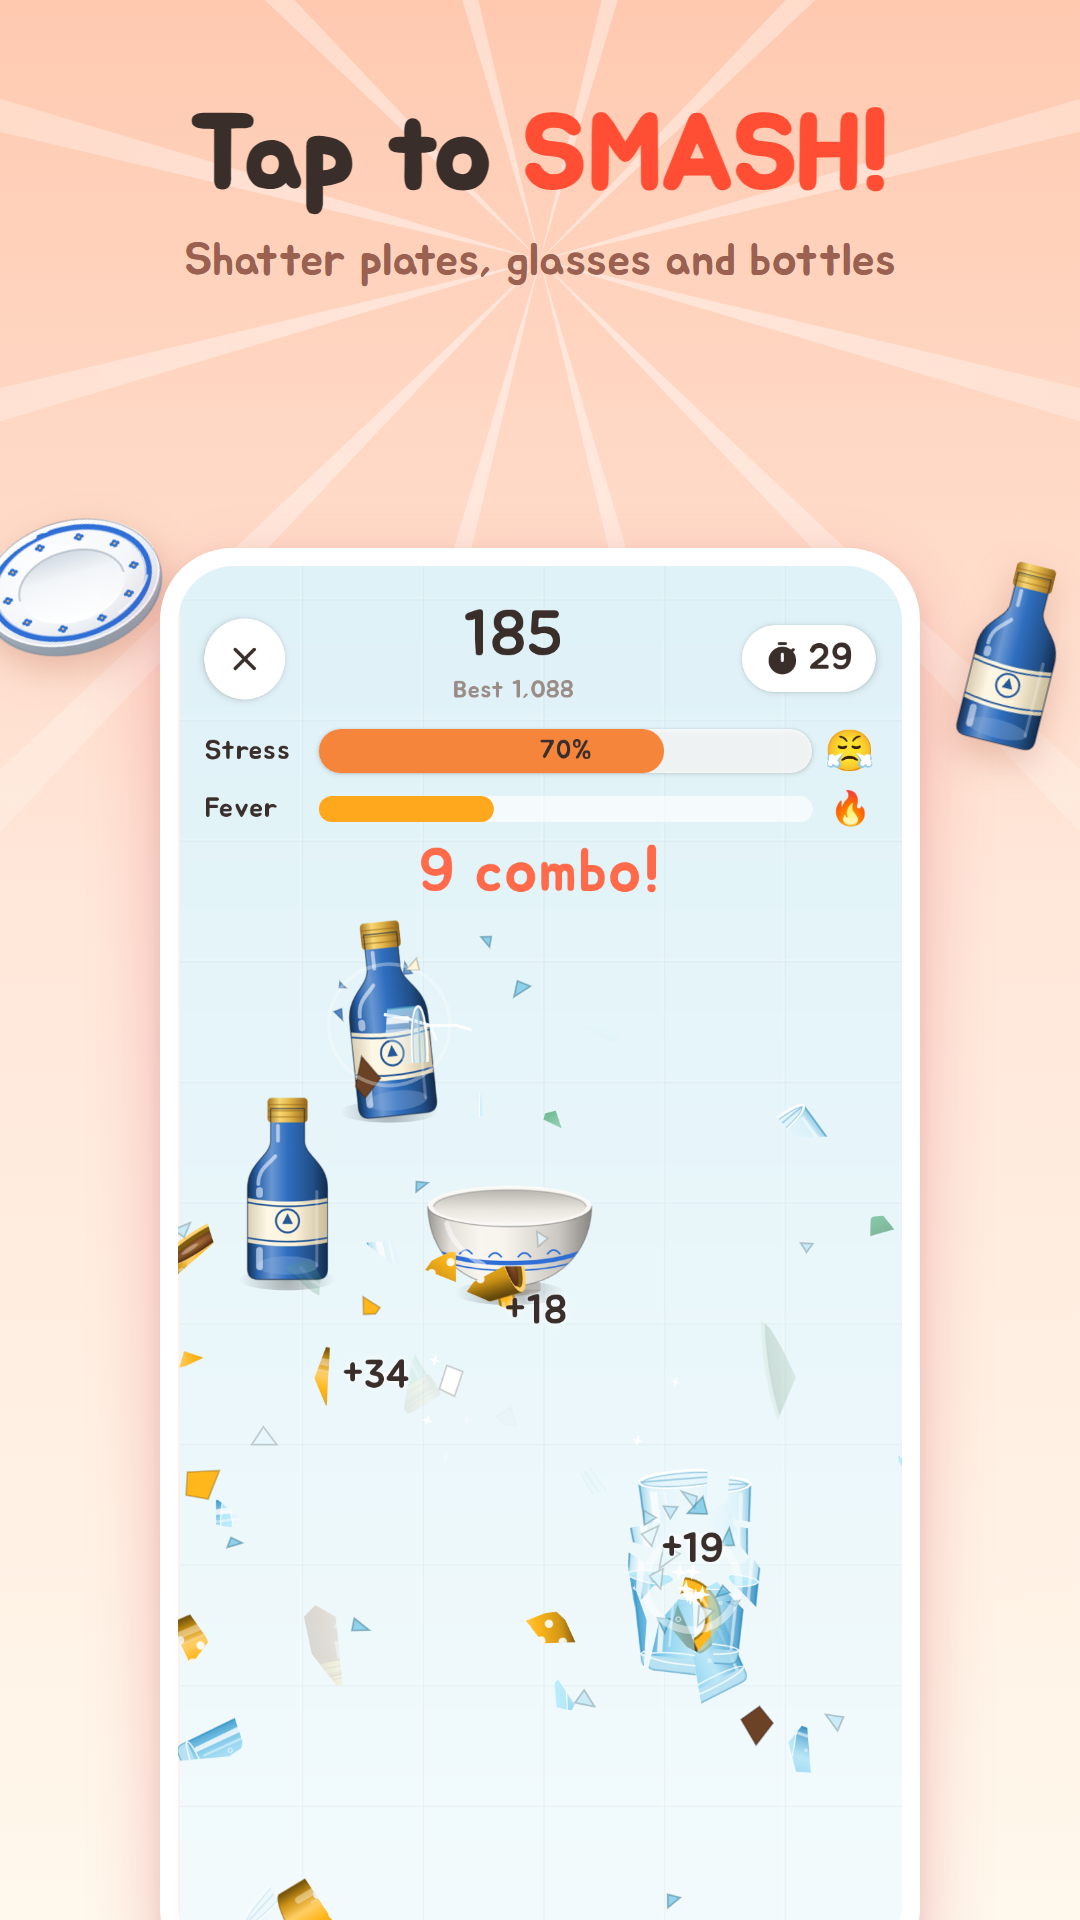
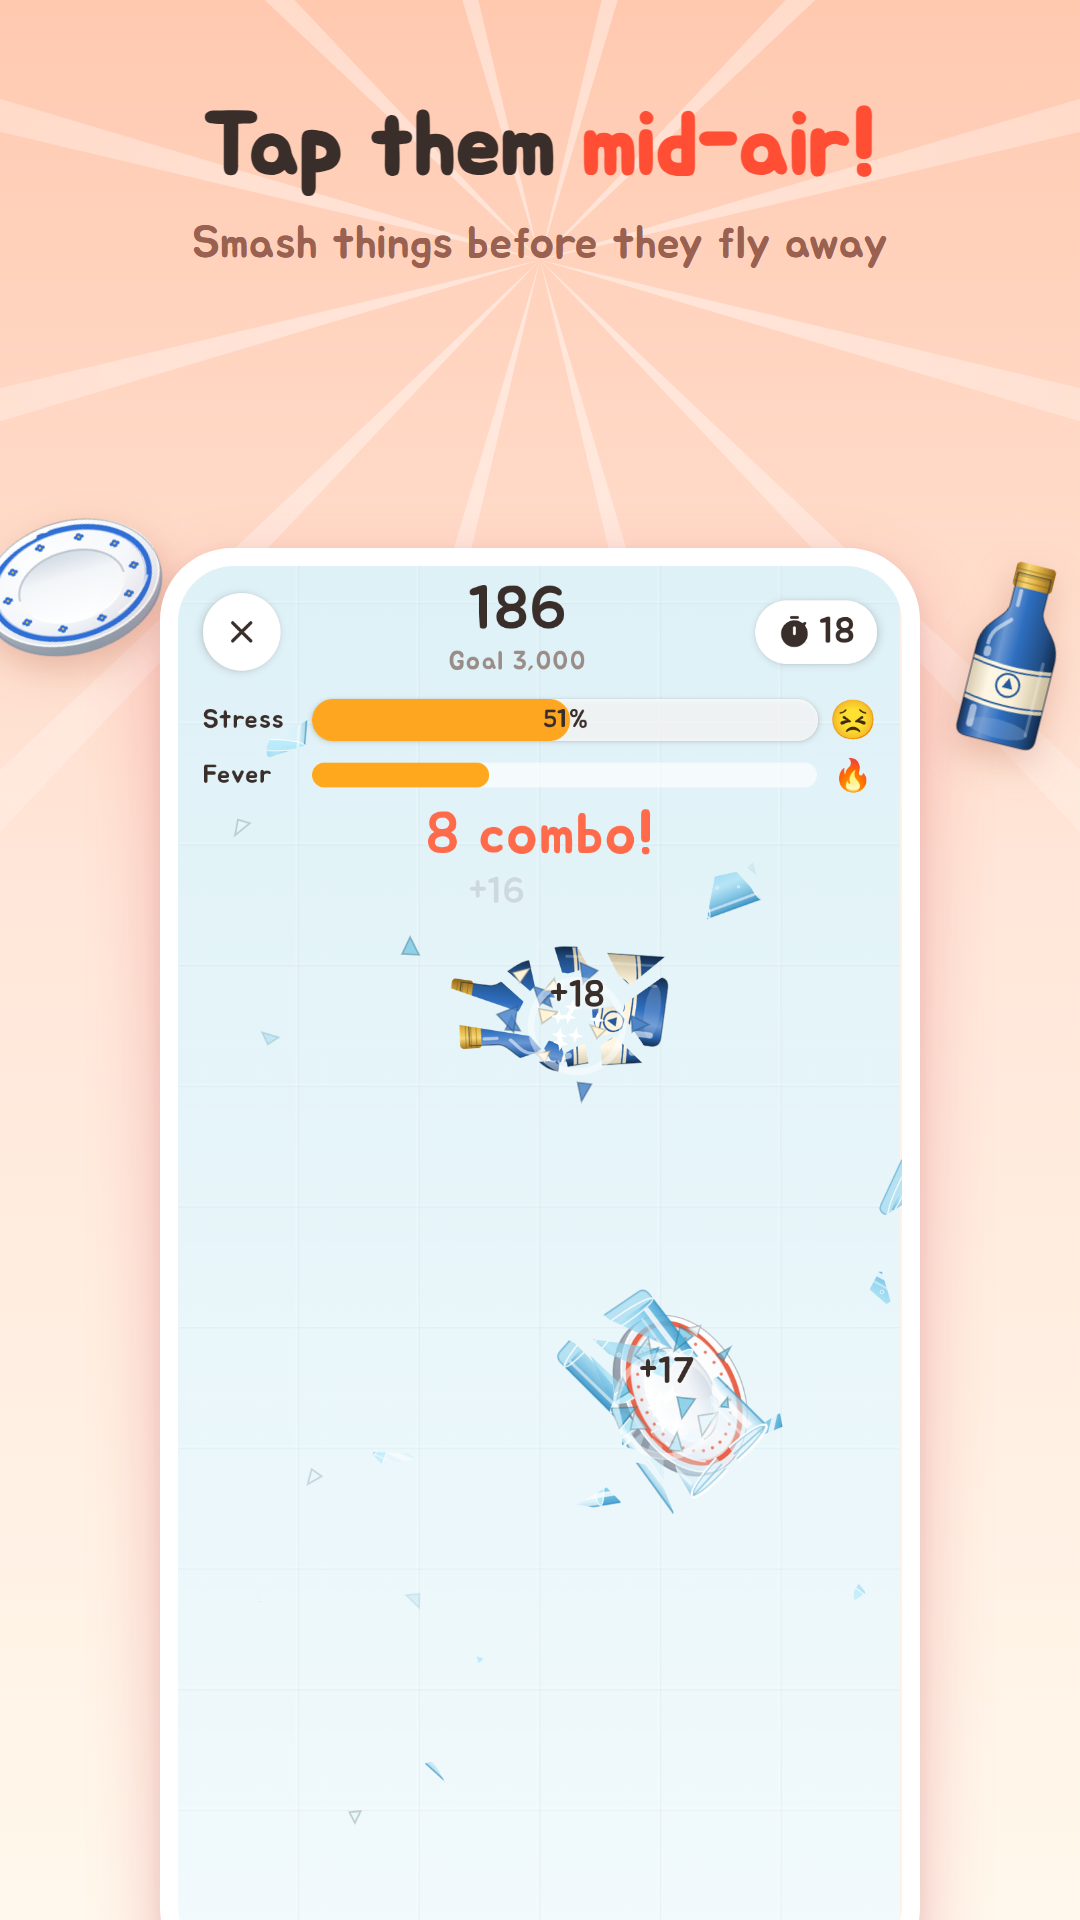
스트레스 박살: 스테이지·박살 대결에 맞게 소개와 개인정보처리방침 고침

diff --git a/apps/stress-smash/privacy.html b/apps/stress-smash/privacy.html
@@ -20,21 +20,22 @@
 
   <section class="doc" lang="en">
     <h1>Stress Smash Privacy Policy</h1>
-    <p class="date">Effective date: November 18, 2026</p>
+    <p class="date">Effective date: November 24, 2026</p>
     <p>This policy explains what information the Stress Smash app ("the app"), published by sosothing, handles and how. The app does not require an account, and sosothing does not run any server that collects your data.</p>
 
     <h2>1. Information stored only on your device</h2>
     <ul>
-      <li>Your best score and how many things you have smashed</li>
+      <li>Which stages you have cleared and how many things you have smashed</li>
       <li>Which smash themes are unlocked and which one you picked</li>
       <li>Whether you have seen the tutorial</li>
       <li>Your language, sound and vibration settings</li>
     </ul>
     <p>This information is stored only on your phone. It is never sent to sosothing or anyone else.</p>
+    <p>In Smash Battle, the names you type and everyone's scores are kept only while the app is open. They are not saved and are never sent anywhere.</p>
     <p>The app uses your phone's vibration only to give short feedback when things break. This does not collect any information.</p>
 
     <h2>2. Advertising (Google AdMob)</h2>
-    <p>The app shows rewarded ads through Google AdMob, only when you choose to watch one (for Fever ×2 or to unlock a theme right away). The app does not show ads on its own.</p>
+    <p>The app shows rewarded ads through Google AdMob, only when you choose to watch one (for Fever ×2, 10 more seconds in a stage, or to unlock a theme right away). The app does not show ads on its own.</p>
     <p>To show ads, measure them and prevent fraud, Google may collect and process information such as:</p>
     <ul>
       <li>Advertising ID and other device identifiers</li>
@@ -45,7 +46,7 @@
     <p>You can reset or delete your advertising ID, or turn off personalized ads, in your device settings (Settings &gt; Google &gt; Ads, or Settings &gt; Privacy &gt; Ads).</p>
 
     <h2>3. In-app items</h2>
-    <p>Themes unlock as you smash more things, or right away by watching an ad. Fever ×2 is given by watching an ad. The app does not sell anything for real money.</p>
+    <p>Themes unlock as you clear stages, or right away by watching an ad. Fever ×2 and 10 more seconds are given by watching an ad. The app does not sell anything for real money.</p>
 
     <h2>4. Children</h2>
     <p>The app is not directed at children under 13, and sosothing does not knowingly collect personal information from children.</p>
@@ -62,21 +63,22 @@
 
   <section class="doc" lang="ko">
     <h1>스트레스 박살 개인정보처리방침</h1>
-    <p class="date">시행일: 2026년 11월 18일</p>
+    <p class="date">시행일: 2026년 11월 24일</p>
     <p>이 방침은 소소한상상(sosothing)이 제공하는 스트레스 박살 앱(이하 "앱")이 어떤 정보를 어떻게 다루는지 설명합니다. 앱은 회원가입이 없으며, sosothing은 사용자 정보를 모으는 서버를 운영하지 않습니다.</p>
 
     <h2>1. 기기에만 저장되는 정보</h2>
     <ul>
-      <li>최고 점수, 지금까지 부순 물건 수</li>
+      <li>깬 스테이지, 지금까지 부순 물건 수</li>
       <li>열린 부수기 테마와 고른 테마</li>
       <li>튜토리얼을 봤는지 여부</li>
       <li>언어·소리·진동 설정</li>
     </ul>
     <p>이 정보는 사용자의 휴대폰에만 저장되며, sosothing이나 다른 누구에게도 전송되지 않습니다.</p>
+    <p>박살 대결에서 입력한 이름과 각자의 점수는 앱을 켜 둔 동안에만 쓰이고, 저장하거나 어디로도 보내지 않습니다.</p>
     <p>앱은 물건이 깨질 때 짧게 떨리는 손맛을 위해서만 휴대폰 진동을 사용하며, 이로 인해 수집되는 정보는 없습니다.</p>
 
     <h2>2. 광고 (Google AdMob)</h2>
-    <p>앱은 Google AdMob을 통해 보상형 광고를 보여 줍니다. 광고는 사용자가 직접 선택할 때만 나옵니다(피버 2배, 테마 바로 열기). 앱이 저절로 광고를 띄우지 않습니다.</p>
+    <p>앱은 Google AdMob을 통해 보상형 광고를 보여 줍니다. 광고는 사용자가 직접 선택할 때만 나옵니다(피버 2배, 스테이지 10초 더, 테마 바로 열기). 앱이 저절로 광고를 띄우지 않습니다.</p>
     <p>광고 제공, 효과 측정, 부정 사용 방지를 위해 Google이 다음과 같은 정보를 수집·처리할 수 있습니다.</p>
     <ul>
       <li>광고 ID 및 기타 기기 식별자</li>
@@ -87,7 +89,7 @@
     <p>휴대폰 설정(설정 &gt; Google &gt; 광고, 또는 설정 &gt; 개인정보 보호 &gt; 광고)에서 광고 ID를 재설정·삭제하거나 맞춤 광고를 끌 수 있습니다.</p>
 
     <h2>3. 게임 안 아이템</h2>
-    <p>테마는 물건을 부술수록 열리며, 광고를 보면 바로 열 수도 있습니다. 피버 2배는 광고를 보면 받을 수 있습니다. 앱은 실제 돈으로 아무것도 판매하지 않습니다.</p>
+    <p>테마는 스테이지를 깨면 열리며, 광고를 보면 바로 열 수도 있습니다. 피버 2배와 10초 더는 광고를 보면 받을 수 있습니다. 앱은 실제 돈으로 아무것도 판매하지 않습니다.</p>
 
     <h2>4. 아동</h2>
     <p>앱은 만 13세 미만 아동을 대상으로 하지 않으며, sosothing은 아동의 개인정보를 알면서 수집하지 않습니다.</p>

diff --git a/index.html b/index.html
@@ -114,20 +114,20 @@
         <img src="assets/stress-smash-icon.png" alt="">
         <div>
           <h3><span lang="ko">스트레스 박살</span><span lang="en">Stress Smash</span></h3>
-          <p lang="ko">접시, 유리컵, 병을 마구 눌러 와장창 부수는 스트레스 해소 게임</p>
-          <p lang="en">Tap like crazy to smash plates, glasses and bottles</p>
+          <p lang="ko">날아오는 접시, 유리컵, 병을 눌러 와장창 부수는 스트레스 해소 게임</p>
+          <p lang="en">Tap flying plates, glasses and bottles to smash them</p>
         </div>
       </div>
       <img class="shot" lang="ko" src="assets/stress-smash-ko.png" alt="스트레스 박살 게임 화면">
       <img class="shot" lang="en" src="assets/stress-smash-en.png" alt="Stress Smash game screen">
       <ul lang="ko">
         <li>부술 때마다 스트레스 게이지가 줄고, 다 비우면 후련해요</li>
-        <li>30초 러시로 최고 점수에 도전, 힐링 모드로 천천히</li>
+        <li>스테이지를 깨고 테마를 열고, 박살 대결로 친구와 점수 대결</li>
         <li>부엌, 사무실, 파티, 도자기 공방, 뽁뽁이 테마</li>
       </ul>
       <ul lang="en">
         <li>Every smash lowers the stress bar. Empty it to feel great</li>
-        <li>30-second Rush for high scores, Healing mode to relax</li>
+        <li>Clear stages to unlock themes, and battle friends on one phone</li>
         <li>Kitchen, office, party, pottery and bubble wrap themes</li>
       </ul>
       <div class="links">
